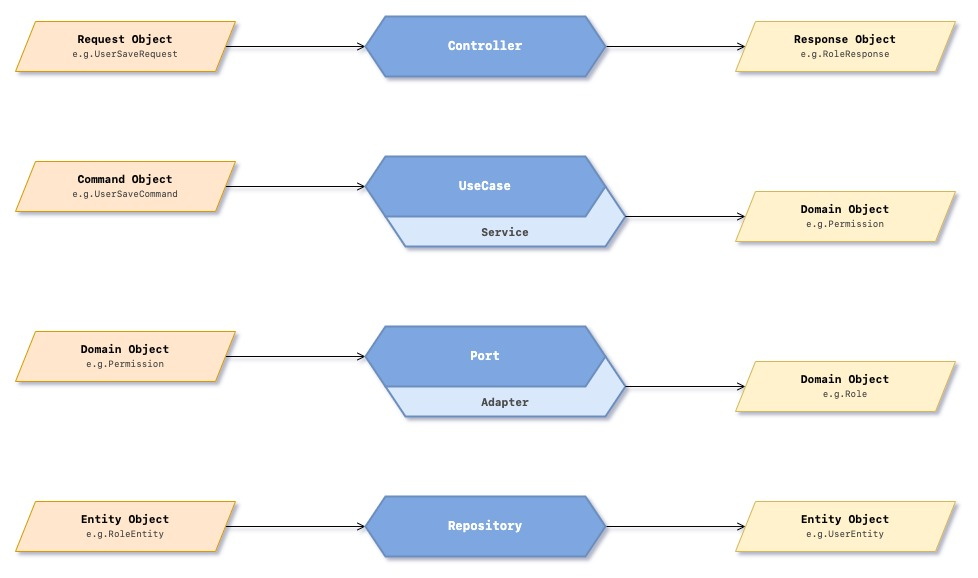
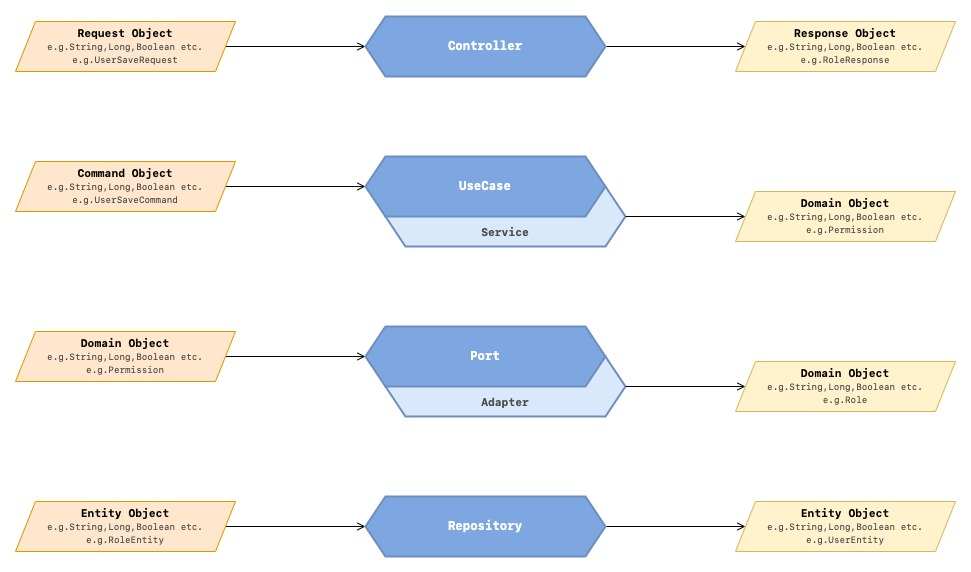
Project Architecture Has Been Updated

diff --git a/README.md b/README.md
@@ -38,5 +38,4 @@ workflows.
 
 ## 🏛 Hexagonal Architecture
 
-<img src="https://rb.gy/sa7kt" width="7000" alt=""/>
-
+![](https://github.com/agitrubard/auth-side-services/blob/main/documents/architecture/hexagonal-architecture.jpg?raw=true)
